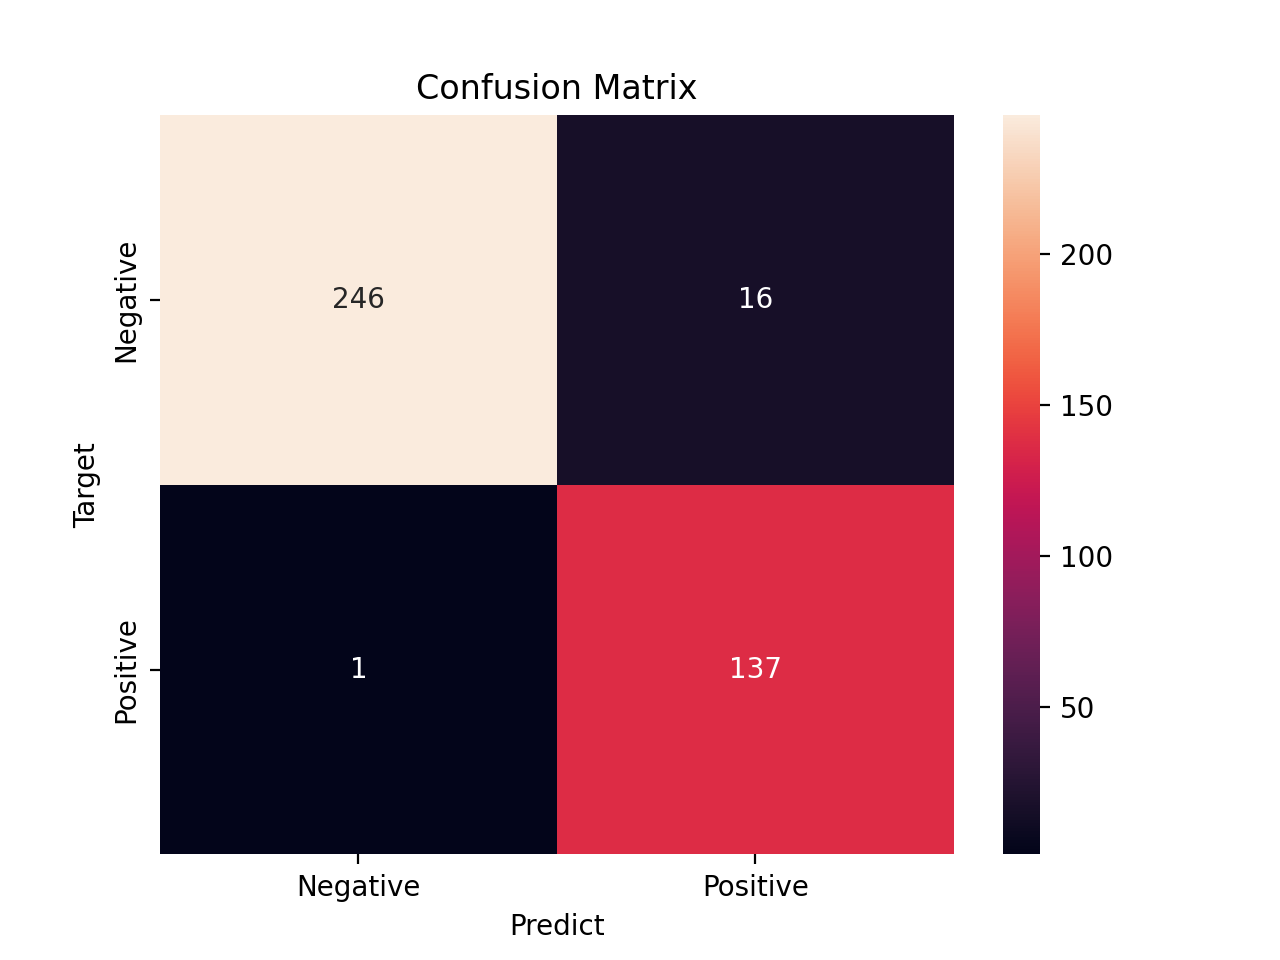
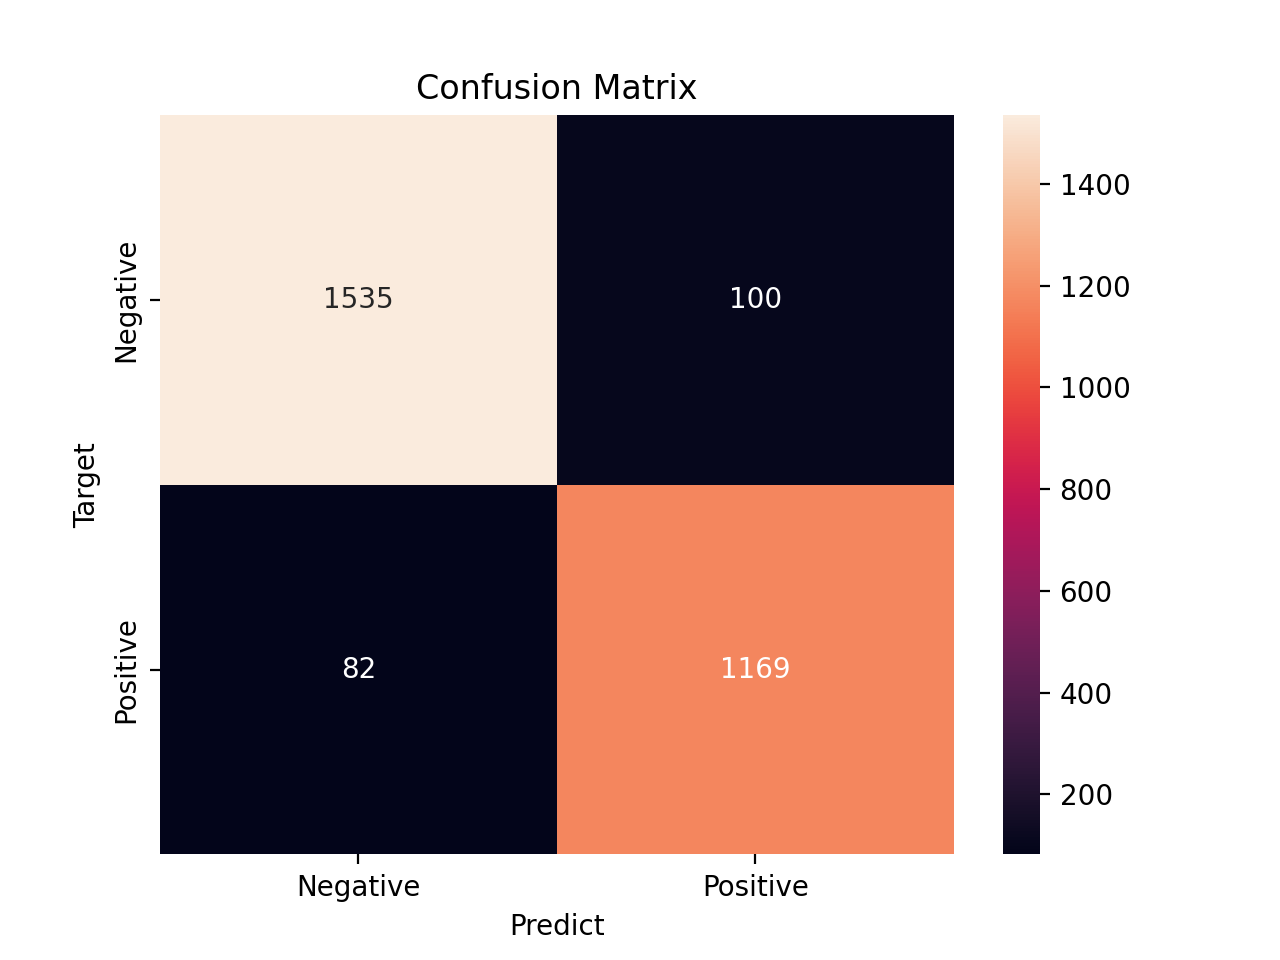
完成最新数据集上的训练预测

diff --git a/1_process.py b/1_process.py
@@ -7,23 +7,40 @@ from sklearn.model_selection import train_test_split
 2. 组织成fastnlp需要的格式
 """
  
-df = pd.read_excel("./dataset/dataset0929.xlsx")
+df = pd.read_excel("./dataset/dataset0930.xlsx")
 df = df.dropna()
 # 去除内容的换行符、多余空格
 df["content"] = df["content"].apply(lambda x: x.replace("\n", " ").strip())
-print(df["label"].unique())
 df = df[df["content"] != ""]
-print(df["label"].unique())
-X, y = df["content"].values, df["label"].values
+X, y = df["content"].values, df["label"]
 # 数据切分 train:80% test: 10% valid: 10%
 X_train, X_test, y_train, y_test = train_test_split(X, y, test_size=0.2)
 X_test, X_valid, y_test, y_valid = train_test_split(X_test, y_test, test_size=0.5)
 
 train_df = pd.DataFrame(data={"content": X_train, "label": y_train})
 train_df["type"] = "train"
+
+# size = train_df.shape[0]
+# to_replace_size = int(size * 0.05)
+# train_df.loc[train_df[train_df['label'] == 1].sample(to_replace_size).index, 'label'] = 0
+# train_df.loc[train_df[train_df['label'] == 0].sample(to_replace_size).index, 'label'] = 1
+
 test_df = pd.DataFrame(data={"content": X_test, "label": y_test})
 test_df["type"] = "test"
+
+# size = test_df.shape[0]
+# to_replace_size = int(size * 0.03)
+# test_df.loc[test_df[test_df['label'] == 1].sample(to_replace_size).index, 'label'] = 0
+# test_df.loc[test_df[test_df['label'] == 0].sample(to_replace_size).index, 'label'] = 1
+
 valid_df = pd.DataFrame(data={"content": X_valid, "label": y_valid})
 valid_df["type"] = "valid"
+
+# size = valid_df.shape[0]
+# to_replace_size = int(size * 0.05)
+# valid_df.loc[valid_df[valid_df['label'] == 1].sample(to_replace_size).index, 'label'] = 0
+# valid_df.loc[valid_df[valid_df['label'] == 0].sample(to_replace_size).index, 'label'] = 1
+
+
 df = pd.concat([train_df, test_df, valid_df])
-df = df.to_csv("./dataset/processed0929.csv", index=False)
+df = df.to_csv("./dataset/processed0930.csv", index=False)

diff --git a/3_error_analyse.py b/3_error_analyse.py
@@ -7,7 +7,7 @@ import numpy as np
 误差分析：
     1. 绘制混淆矩阵
 """
-cm_data = np.array([[246, 16], [1, 137]])
+cm_data = np.array([[1535, 100], [82, 1169]])
 norm_cm_data = cm_data / cm_data.sum(axis=1, keepdims=True)
 np.fill_diagonal(norm_cm_data, 0)
 cm_df = pd.DataFrame(cm_data, index=["Negative", "Positive"],columns=["Negative", "Positive"])
